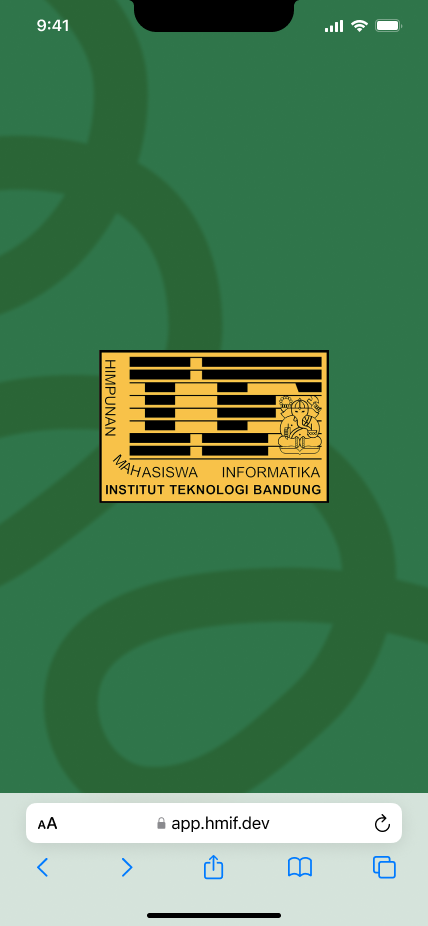
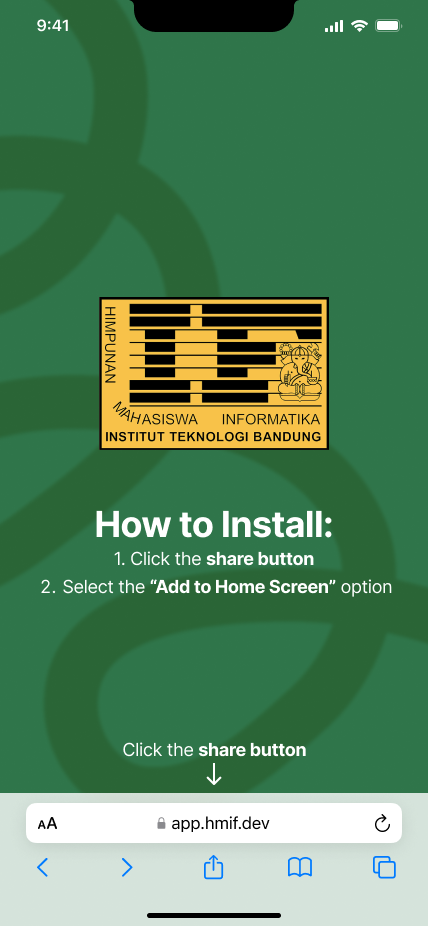
feat: update ios install tutorial and add android install tutorial

diff --git a/apps/web/src/components/ask-install.tsx b/apps/web/src/components/ask-install.tsx
@@ -6,29 +6,49 @@ import {
   CarouselContent,
   CarouselItem,
 } from './ui/carousel';
+import { isiOS } from '~/lib/device';
 
 export default function AskForInstall() {
-  // return isiOS() ? <IOSInstall /> : null;
-  return <IOSInstall />;
+  const isIos = isiOS();
+  return <InstallTutorial isIos={isIos} />;
 }
 
 const iosImages = Array.from({ length: 5 }, (_, i) => i + 1).map(
   (i) => `/img/install/iphone${i}.png`,
 );
-const help = [
+const iosHelp = [
   "Click the 'Share' button",
   "Select 'Add to Home Screen'",
   "Select 'Add to Home Screen'",
   "Click 'Add'",
   'Welcome PIPS!',
 ];
+const iosDimensions = { height: 926, width: 428 };
 
-function IOSInstall() {
-  const height = Math.min(window.innerHeight, (926 / 428) * window.innerWidth);
-  const width = (428 / 926) * height;
+const androidImages = Array.from({ length: 4 }, (_, i) => i + 1).map(
+  (i) => `/img/install/android${i}.png`,
+);
+const androidHelp = [
+  'Click the three dots button',
+  'Select "Add to Home Screen" option',
+  'Select the "Install" option',
+  'Select the "Install" option',
+];
+const androidDimensions = { height: 916, width: 412 };
+
+function InstallTutorial({ isIos }: { isIos: boolean }) {
+  const dimensions = isIos ? iosDimensions : androidDimensions;
+  const height = Math.min(
+    window.innerHeight,
+    (dimensions.height / dimensions.width) * window.innerWidth,
+  );
+  const width = (dimensions.width / dimensions.height) * height;
   const style = { height, width };
   const [selected, setSelected] = useState(0);
   const [api, setApi] = useState<CarouselApi>(undefined);
+
+  const images = isIos ? iosImages : androidImages;
+  const help = isIos ? iosHelp : androidHelp;
 
   return (
     <div className="bg-[#2F754A]">
@@ -38,8 +58,8 @@ function IOSInstall() {
         onSlideChange={setSelected}
         setApi={setApi}
       >
-        <CarouselContent style={style}>
-          {iosImages.map((src, i) => (
+        <CarouselContent>
+          {images.map((src, i) => (
             <CarouselItem key={src} className="relative flex flex-col">
               <img
                 src={src}
@@ -53,7 +73,7 @@ function IOSInstall() {
           ))}
         </CarouselContent>
         <div className="absolute bottom-[8px] flex w-full items-center justify-center space-x-2 opacity-60">
-          {iosImages.map((_, i) => (
+          {images.map((_, i) => (
             <button
               className={clsx(
                 'size-[8px] rounded-full',
